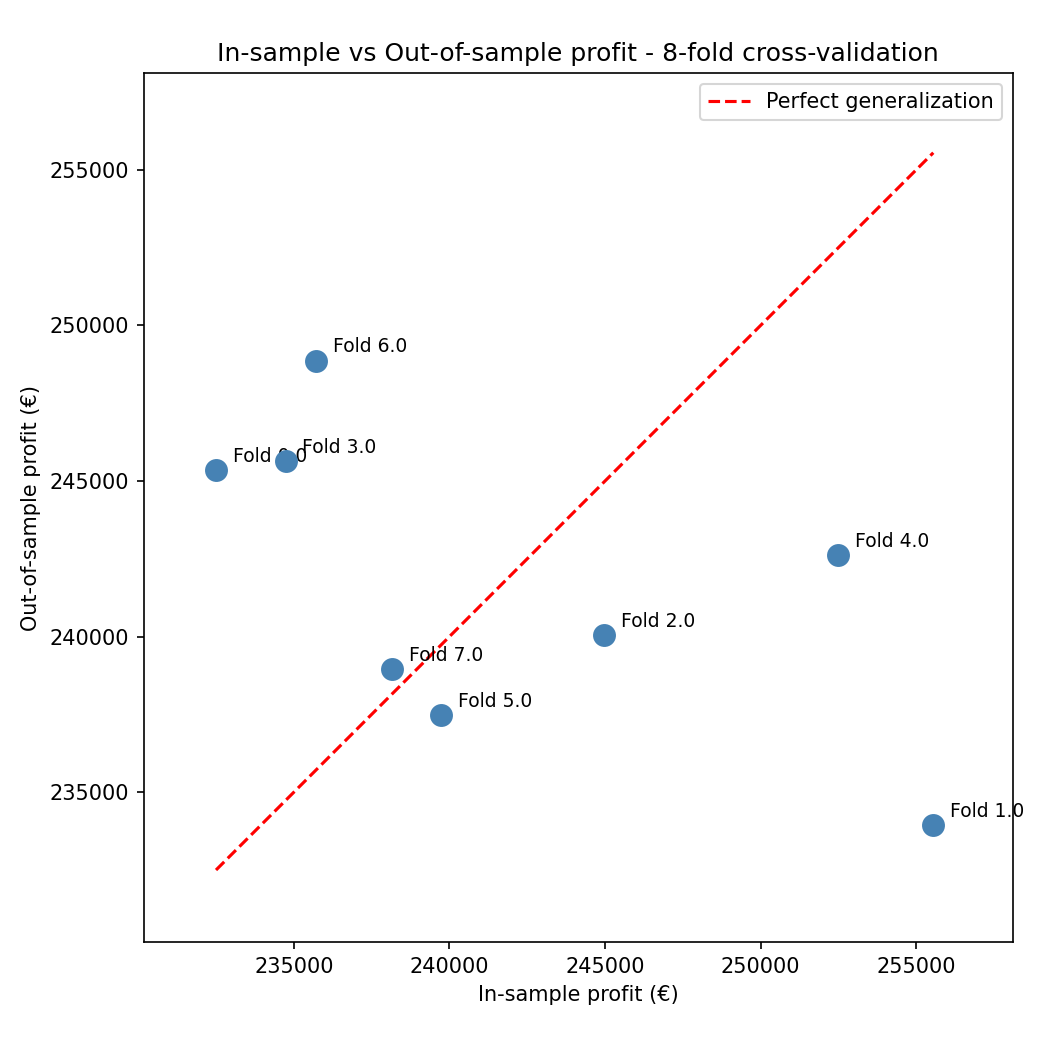
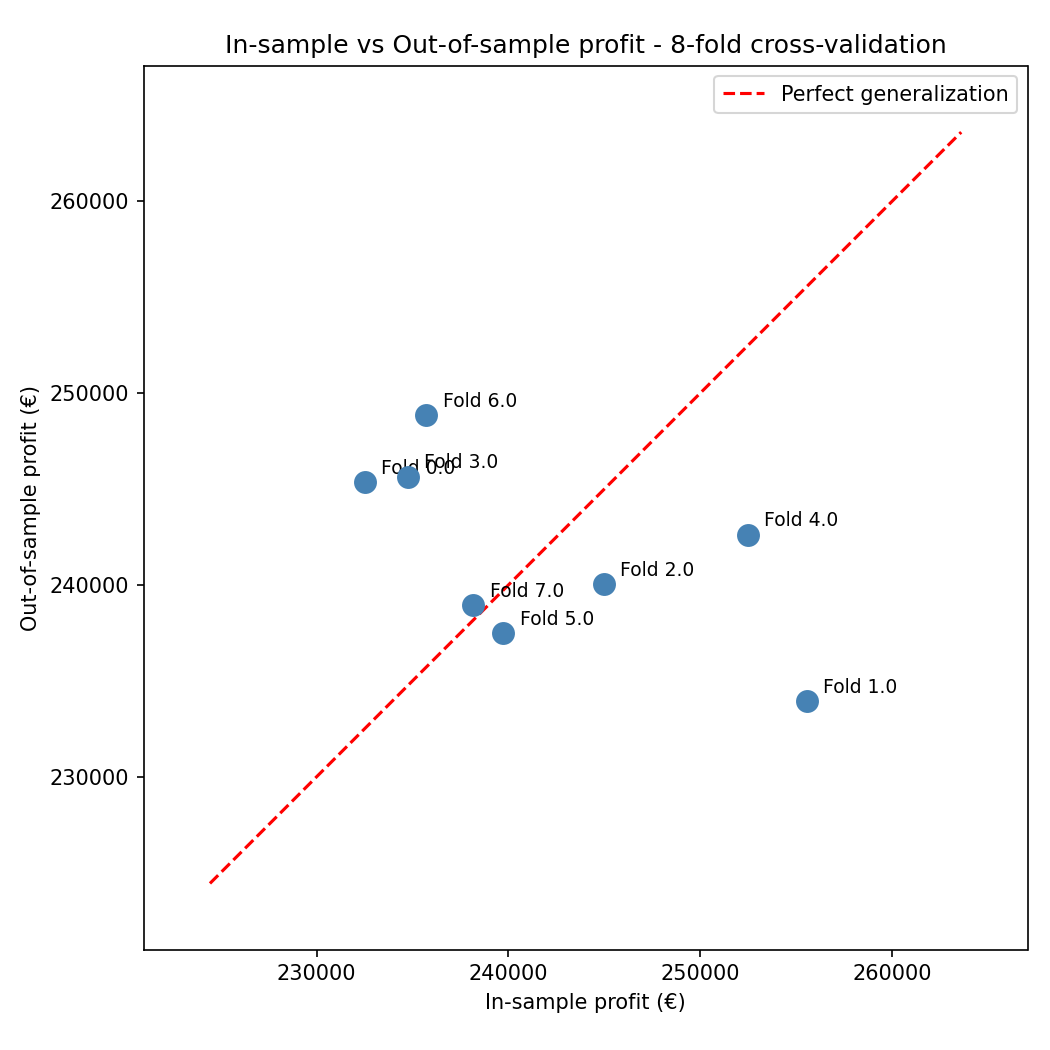
task 1.3 plots improved

diff --git a/Step1_Task3.py b/Step1_Task3.py
@@ -69,7 +69,7 @@ def solve_two_price(scenarios_subset,prob_subset): # defining the two-price solv
 
 # 8-fold cross-validation 
 N_FOLDS    = 8    # number of folds for cross-validation
-N_INSAMPLE = 200  # number of scenarios in the in-sample set for each fold
+N_INSAMPLE = 400  # number of scenarios in the in-sample set for each fold
 
 
 np.random.seed(42)
@@ -148,19 +148,40 @@ ax.scatter(results_df['insample_profit'], results_df['outsample_profit'],
 # diagonal reference line
 min_val = min(results_df['insample_profit'].min(), results_df['outsample_profit'].min())
 max_val = max(results_df['insample_profit'].max(), results_df['outsample_profit'].max())
-ax.plot([min_val, max_val], [min_val, max_val], 'r--', linewidth=1.5, label='Perfect generalization')
+margin = (max_val - min_val) * 0.5
+ax.plot([min_val - margin * 0.7, max_val + margin * 0.7], 
+        [min_val - margin * 0.7, max_val + margin * 0.7], 
+        'r--', linewidth=1.5, label='Perfect generalization')
 
 # fold labels
 for i, row in results_df.iterrows():
     ax.annotate(f"Fold {row['fold']}", (row['insample_profit'], row['outsample_profit']),
                 textcoords="offset points", xytext=(8, 4), fontsize=9)
 ax.set_aspect('equal', adjustable='box')
-ax.set_xlim(min_val * 0.99, max_val * 1.01)
-ax.set_ylim(min_val * 0.99, max_val * 1.01)
+ax.set_xlim(min_val - margin, max_val + margin)
+ax.set_ylim(min_val - margin, max_val + margin)
 ax.set_xlabel("In-sample profit (€)")
 ax.set_ylabel("Out-of-sample profit (€)")
 ax.set_title("In-sample vs Out-of-sample profit - 8-fold cross-validation")
 ax.legend()
 plt.tight_layout()
 plt.savefig(PLOTS / "Task1.3_crossvalidation_scatter.png", dpi=150)
+plt.show()
+
+# bar plot
+x = np.arange(N_FOLDS)
+width = 0.35
+
+fig, ax = plt.subplots(figsize=(10, 5))
+ax.bar(x - width/2, results_df['insample_profit'],  width, label='In-sample',  color='steelblue')
+ax.bar(x + width/2, results_df['outsample_profit'], width, label='Out-of-sample', color='orange')
+
+ax.set_xlabel('Fold')
+ax.set_ylabel('Profit (€)')
+ax.set_title('In-sample vs Out-of-sample profit per fold')
+ax.set_xticks(x)
+ax.set_xticklabels([f'Fold {i}' for i in range(N_FOLDS)])
+ax.legend()
+plt.tight_layout()
+plt.savefig(PLOTS / "Task1.3_crossvalidation_barplot.png", dpi=150)
 plt.show()
